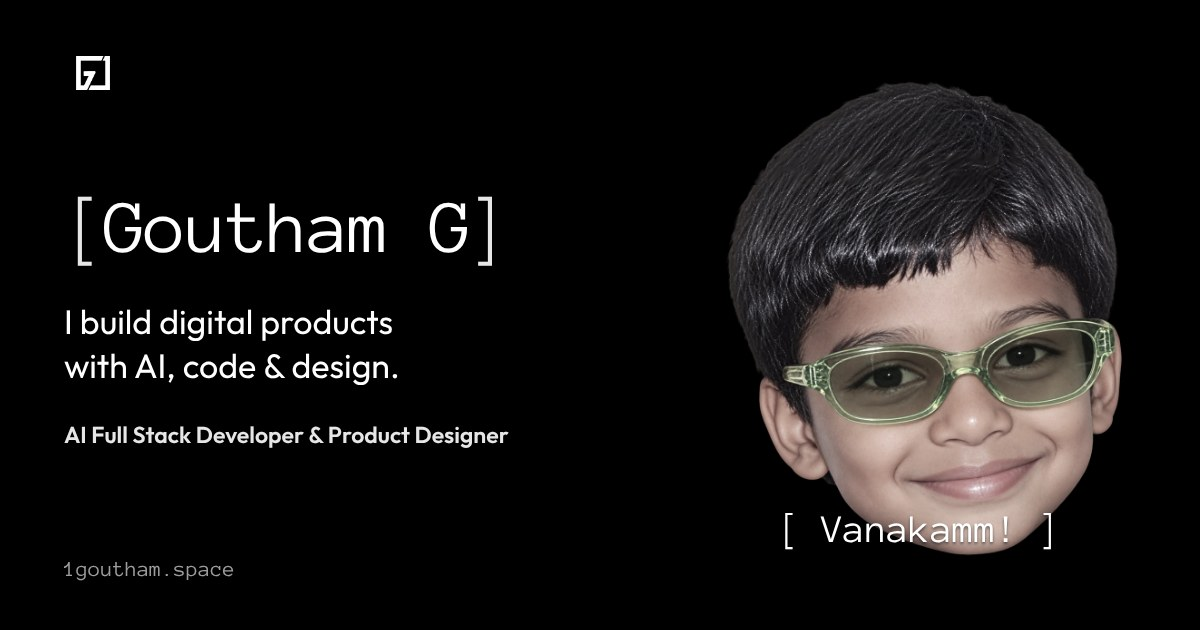
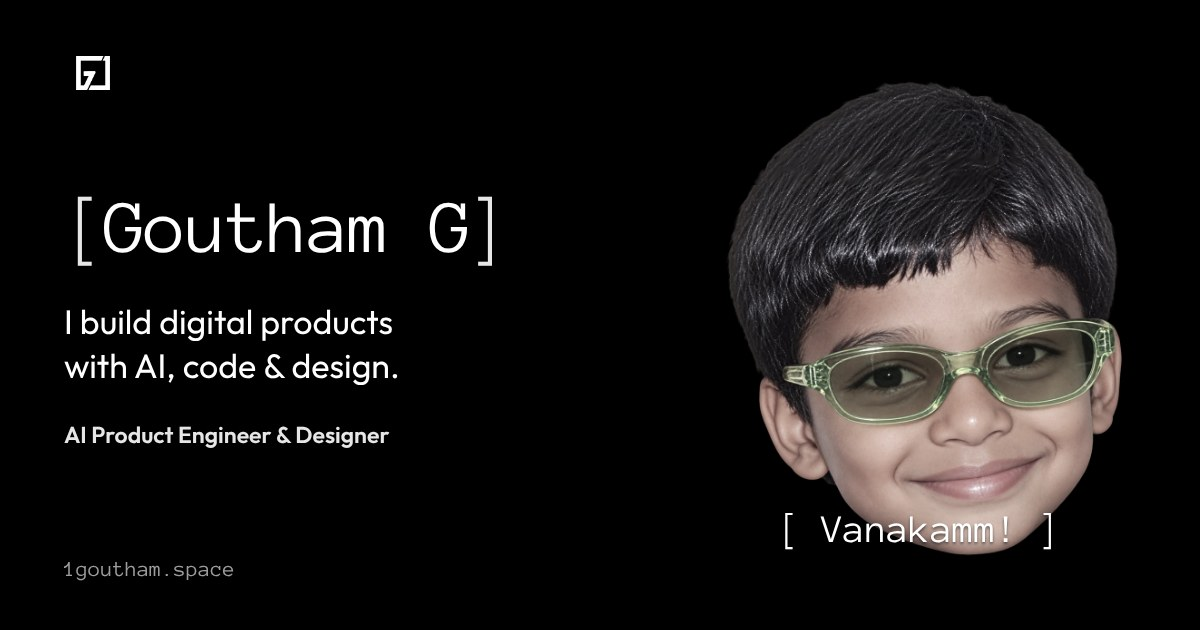
SEO: new title, sitemap, robots, structured data
Title: Goutham G | AI Product Engineer & Designer, with a description that
names him in full and where he is. The homepage link preview carries the
new title too.

Adds /sitemap.xml and /robots.txt (keeping /api and /margin/wall out),
large image previews for Google, and schema.org data: a Person (name,
other name, role, Coimbatore, socials) and the site on the homepage, and
1G-works as a ProfessionalService he founded on /works.

Claude-Session: https://claude.ai/code/session_011JZeWZhxMNci4YbX9DFC3o

Changed region(s): [[0.0617, 0.6635, 0.4317, 0.7238]]

diff --git a/src/lib/seo.ts b/src/lib/seo.ts
@@ -30,3 +30,68 @@ export function pageMeta({
     twitter: { card: 'summary_large_image', title, description, images: [img] },
   };
 }
+
+const PERSON_ID = `${SITE_URL}/#person`;
+
+/** Who the site is about, for search engines (schema.org JSON-LD). */
+export const personLd = {
+  '@context': 'https://schema.org',
+  '@graph': [
+    {
+      '@type': 'Person',
+      '@id': PERSON_ID,
+      name: 'Goutham G',
+      alternateName: 'Goutham Gopinath',
+      jobTitle: 'AI Product Engineer & Designer',
+      description:
+        'AI product engineer and designer building digital products with AI, code and design: full-stack web apps, AI tools and interfaces.',
+      url: SITE_URL,
+      image: `${SITE_URL}/beyondpic.png`,
+      email: 'mailto:gouthamgopinath.tsi@gmail.com',
+      address: { '@type': 'PostalAddress', addressLocality: 'Coimbatore', addressRegion: 'Tamil Nadu', addressCountry: 'IN' },
+      knowsAbout: [
+        'AI product engineering',
+        'Full-stack web development',
+        'Retrieval-augmented generation',
+        'Product design',
+        'UI/UX design',
+        'Next.js',
+        'React',
+        'TypeScript',
+        'Node.js',
+      ],
+      sameAs: [
+        'https://www.linkedin.com/in/goutham-g-98a0ba253/',
+        'https://github.com/1Goutham',
+        'https://www.instagram.com/tanger.ineee/',
+      ],
+    },
+    {
+      '@type': 'WebSite',
+      '@id': `${SITE_URL}/#website`,
+      url: SITE_URL,
+      name: 'Goutham G',
+      inLanguage: 'en',
+      publisher: { '@id': PERSON_ID },
+    },
+  ],
+};
+
+/** 1G-works, his studio, on /works. */
+export const worksLd = {
+  '@context': 'https://schema.org',
+  '@type': 'ProfessionalService',
+  '@id': `${SITE_URL}/works#studio`,
+  name: '1G-works',
+  slogan: 'Ideas into digital impact',
+  description: '1G-works brings design, technology and AI together to help businesses build a stronger digital presence.',
+  url: `${SITE_URL}/works`,
+  image: `${SITE_URL}/og/works.jpg`,
+  founder: { '@type': 'Person', '@id': PERSON_ID, name: 'Goutham G' },
+  areaServed: 'Worldwide',
+  address: { '@type': 'PostalAddress', addressLocality: 'Coimbatore', addressRegion: 'Tamil Nadu', addressCountry: 'IN' },
+  knowsAbout: ['Brand & creative', 'Web & digital', 'Digital growth', 'Software & AI'],
+};
+
+/** A <script type="application/ld+json"> body, safe to inline. */
+export const ld = (data: object) => ({ __html: JSON.stringify(data).replace(/</g, '\\u003c') });

diff --git a/src/app/layout.tsx b/src/app/layout.tsx
@@ -67,15 +67,34 @@ const poppins = Poppins({
 export const metadata: Metadata = {
   metadataBase: new URL(SITE_URL),
   ...pageMeta({
-    title: "Goutham G | AI Full Stack Developer & Product Designer",
+    title: "Goutham G | AI Product Engineer & Designer",
     description:
-      "I build digital products with AI, code and design. Goutham G, AI full stack developer and product designer in Coimbatore, India: products, the 1G-works studio, and a few experiments.",
+      "Goutham G (Goutham Gopinath) is an AI product engineer and designer in Coimbatore, India, building digital products with AI, code and design: full-stack web apps, AI tools and the 1G-works studio.",
     path: "/",
     image: "home",
-    alt: "Goutham G: I build digital products with AI, code & design",
+    alt: "Goutham G, AI Product Engineer & Designer: I build digital products with AI, code & design",
   }),
+  applicationName: "Goutham G",
   authors: [{ name: "Goutham G", url: SITE_URL }],
   creator: "Goutham G",
+  publisher: "Goutham G",
+  keywords: [
+    "Goutham G",
+    "Goutham Gopinath",
+    "AI product engineer",
+    "AI engineer",
+    "full stack developer",
+    "product designer",
+    "UI/UX designer",
+    "Next.js developer",
+    "Coimbatore",
+    "India",
+    "portfolio",
+    "1G-works",
+  ],
+  category: "technology",
+  formatDetection: { email: false, telephone: false, address: false },
+  robots: { index: true, follow: true, googleBot: { index: true, follow: true, "max-image-preview": "large", "max-snippet": -1 } },
 };
 
 export const viewport: Viewport = {

diff --git a/scripts/og/render.js b/scripts/og/render.js
@@ -56,7 +56,7 @@ const CARDS = {
       <img class="logo" src="${asset("logo.png")}">
       <div class="head" style="top:190px"><div class="title"><b>[</b>Goutham G<b>]</b></div></div>
       <div class="lede" style="top:300px">I build digital products<br>with AI, code &amp; design.</div>
-      <div class="lede" style="top:420px; font-size:23px; font-weight:600; opacity:.9">AI Full Stack Developer &amp; Product Designer</div>
+      <div class="lede" style="top:420px; font-size:23px; font-weight:600; opacity:.9">AI Product Engineer &amp; Designer</div>
       <div class="portrait">
         <img class="shadow" src="${asset("portrait/shadow.png")}">
         <img class="photo" src="${asset("portrait/photo.webp")}">

diff --git a/src/app/sitemap.ts b/src/app/sitemap.ts
@@ -1,0 +1,20 @@
+import type { MetadataRoute } from 'next';
+import { SITE_URL } from '@/lib/seo';
+
+/** /sitemap.xml: the pages worth finding. The arcade and /margin/wall are noindex. */
+export default function sitemap(): MetadataRoute.Sitemap {
+  const now = new Date();
+  const page = (path: string, priority: number, changeFrequency: 'weekly' | 'monthly') => ({
+    url: `${SITE_URL}${path}`,
+    lastModified: now,
+    changeFrequency,
+    priority,
+  });
+  return [
+    page('', 1, 'monthly'),
+    page('/projects', 0.9, 'monthly'),
+    page('/works', 0.8, 'monthly'),
+    page('/beyond', 0.7, 'monthly'),
+    page('/margin', 0.5, 'weekly'),
+  ];
+}

diff --git a/src/app/works/page.tsx b/src/app/works/page.tsx
@@ -1,5 +1,5 @@
 import type { Metadata } from "next";
-import { pageMeta } from "@/lib/seo";
+import { ld, pageMeta, worksLd } from "@/lib/seo";
 import WorksDeck from "./works-deck";
 
 export const metadata: Metadata = pageMeta({
@@ -12,5 +12,10 @@ export const metadata: Metadata = pageMeta({
 });
 
 export default function WorksPage() {
-  return <WorksDeck />;
+  return (
+    <>
+      <script type="application/ld+json" dangerouslySetInnerHTML={ld(worksLd)} />
+      <WorksDeck />
+    </>
+  );
 }

diff --git a/src/app/page.tsx b/src/app/page.tsx
@@ -1,4 +1,5 @@
 import dynamic from "next/dynamic";
+import { ld, personLd } from "@/lib/seo";
 import Hero from "./components/Hero";
 import Scrolltext from "./components/scroll";
 import About from "./components/about";
@@ -17,6 +18,7 @@ const Contact = dynamic(() => import("./components/contact"));
 export default function Home() {
   return (
     <>
+      <script type="application/ld+json" dangerouslySetInnerHTML={ld(personLd)} />
       <Hero />
       <Scrolltext />
       <About />

diff --git a/src/app/robots.ts b/src/app/robots.ts
@@ -1,0 +1,11 @@
+import type { MetadataRoute } from 'next';
+import { SITE_URL } from '@/lib/seo';
+
+/** /robots.txt */
+export default function robots(): MetadataRoute.Robots {
+  return {
+    rules: [{ userAgent: '*', allow: '/', disallow: ['/api/', '/margin/wall'] }],
+    sitemap: `${SITE_URL}/sitemap.xml`,
+    host: SITE_URL,
+  };
+}

diff --git a/src/app/margin/wall/page.tsx b/src/app/margin/wall/page.tsx
@@ -4,6 +4,7 @@ import WallAdmin from "./wall-admin";
 export const metadata: Metadata = {
   title: "The wall (private) | Margin",
   robots: { index: false, follow: false },
+  alternates: { canonical: "/margin/wall" },
 };
 
 export default function WallAdminPage() {
